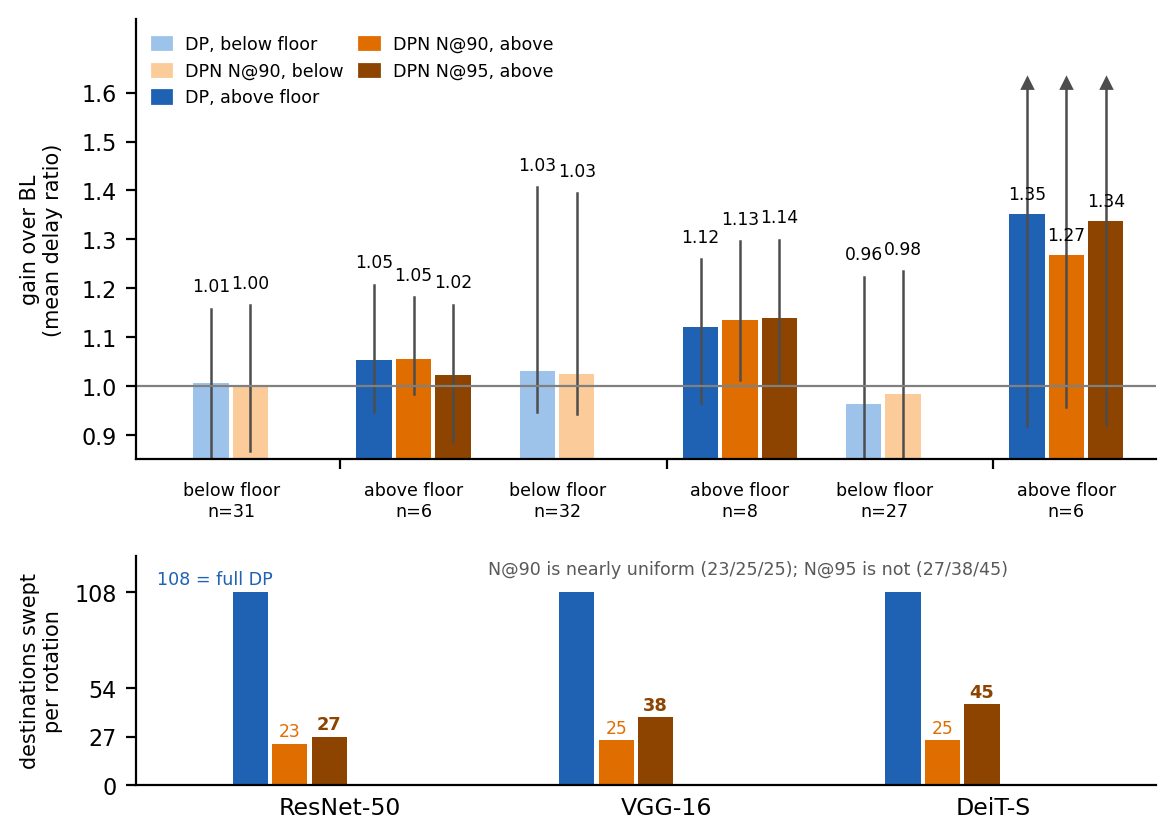
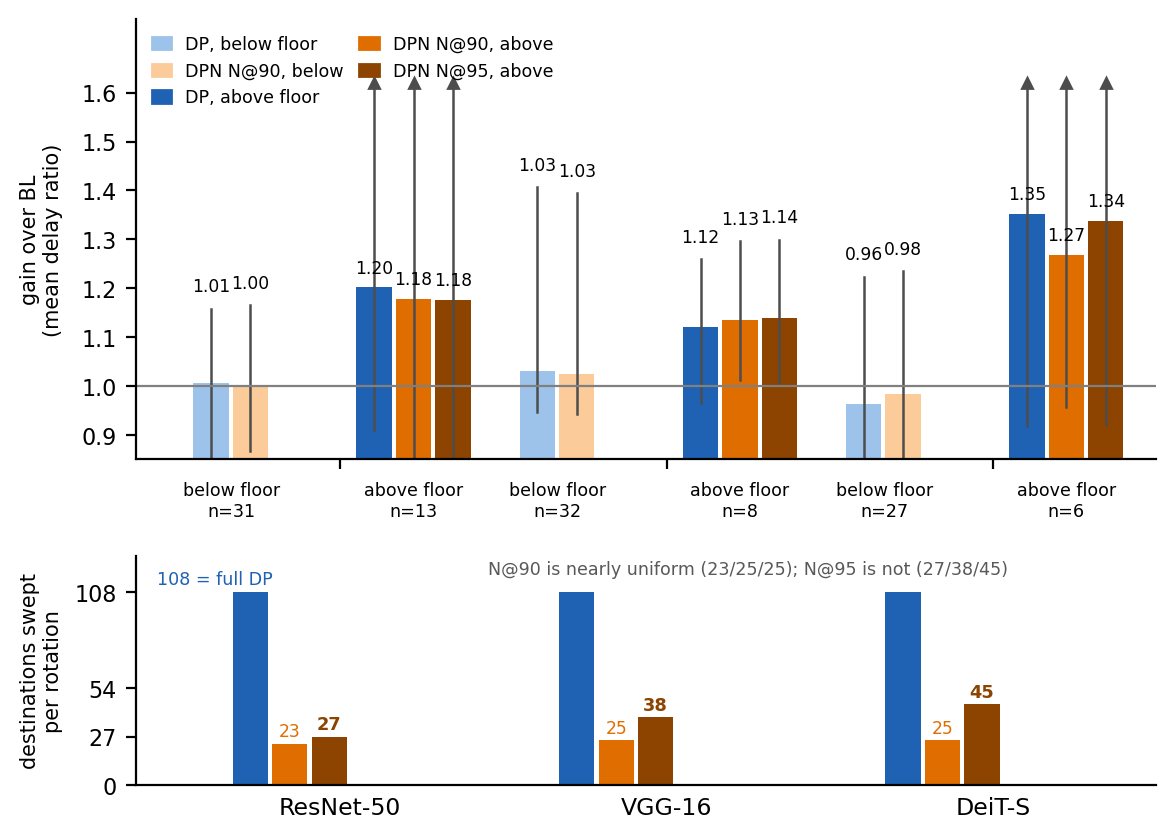
Extension: enlarge ResNet above-floor sample — two corrections
Eight further ResNet (16,2,8) above-floor placements (7 in band after a ladder
patch; knees sit between k=1.8 and 2.1) take that sample from 6 to 13 cells.

1. ResNet's above-floor gain is 1.201 (range 0.91-2.84), not 1.053. The earlier
   weak number was a small-sample artifact, so it no longer supports the
   "injection-bound gains least" reading — the binding result stands on the
   engineered-E grids, not on these cells.
2. The N@95 regression on ResNet was noise: paired difference +0.008, p=0.66
   (VGG p=0.50, DeiT p=0.46). Gain is flat in N from 23 to 27 to 108; the only
   starving cell is DeiT's deepest (0.761 -> 0.944 at N@95).

T1 and F1/F1v2 rebuilt on the enlarged sample: above-floor capture 90/117/78%,
DP/DPN within 3% everywhere.

Changed region(s): [[0.2755, 0.2789, 0.398, 0.4648], [0.3061, 0.093, 0.398, 0.124], [0.3367, 0.5888, 0.3673, 0.6198]]

diff --git a/results_ext/topn/matrix/plot_dpn_bars2.py b/results_ext/topn/matrix/plot_dpn_bars2.py
@@ -3,7 +3,7 @@
 Per workload: below floor (DP, DPN@90) and above floor (DP, DPN@90, DPN@95),
 with a cost panel underneath giving destinations swept per rotation
 (108 / N@90 / N@95).  Above-floor bars use the cells that have both coverages
-(6/8/6) so the three bars in that group are the same placements.
+(13/8/6 after the ResNet ladder patch) so the three bars are the same placements.
 """
 import collections, statistics as st
 import matplotlib
@@ -14,7 +14,8 @@ K = '/home/nizar/noxim3d-dnn/results_ext/topn/matrix'
 I6 = '/home/nizar/noxim3d-dnn/results_ext/topn/int6'
 spec = {}
 for fn in ('run_spec.txt', 'run_spec_patch.txt', 'run_spec_bE.txt',
-           'run_spec_aE.txt', 'run_spec_b2.txt', 'run_spec_minE.txt'):
+           'run_spec_aE.txt', 'run_spec_b2.txt', 'run_spec_minE.txt',
+           'run_spec_extra_af.txt'):
     try:
         for ln in open(f'{K}/{fn}'):
             t, k, dep, flag = ln.split(); spec[t] = flag
@@ -42,7 +43,7 @@ def load(fn, skip=set()):
 
 load(f'{K}/res_matrix.txt', patched)
 load(f'{K}/res_matrix_patch.txt')
-for _f in ('res_bE.txt', 'res_aE.txt', 'res_b2.txt', 'res_minE.txt', 'res_af_n95.txt'):
+for _f in ('res_bE.txt', 'res_aE.txt', 'res_b2.txt', 'res_minE.txt', 'res_extra_af.txt', 'res_af_n95.txt'):
     load(f'{K}/{_f}')
 load(f'{I6}/res_c16knee.txt')
 
@@ -66,7 +67,7 @@ for pk, name, n90, n95 in WL:
             gd.append(b / d); gh.append(b / h)
     DATA[(name, 'below')] = (gd, gh, None)
     tags = sorted({t for t, p in runs if p == 'hyb95' and spec.get(t) == 'OK'
-                   and t.startswith(f'{pk}_af')})
+                   and (t.startswith(f'{pk}_af') or t.startswith(f'{pk}x'))})
     gd, gh, g9 = [], [], []
     for t in tags:
         b, d, h, h9 = cm(t, 'bl'), cm(t, 'dp'), cm(t, 'hyb'), cm(t, 'hyb95')

diff --git a/results_ext/topn/matrix/plot_dpn_bars.py b/results_ext/topn/matrix/plot_dpn_bars.py
@@ -10,7 +10,9 @@ import matplotlib.pyplot as plt
 K = '/home/nizar/noxim3d-dnn/results_ext/topn/matrix'
 I6 = '/home/nizar/noxim3d-dnn/results_ext/topn/int6'
 spec = {}
-for fn in (f'{K}/run_spec.txt', f'{K}/run_spec_patch.txt'):
+for fn in (f'{K}/run_spec.txt', f'{K}/run_spec_patch.txt', f'{K}/run_spec_bE.txt',
+           f'{K}/run_spec_aE.txt', f'{K}/run_spec_b2.txt', f'{K}/run_spec_minE.txt',
+           f'{K}/run_spec_extra_af.txt'):
     for ln in open(fn):
         t, k, dep, flag = ln.split(); spec[t] = flag
 for ln in open(f'{I6}/run_spec_c16.txt'):
@@ -31,6 +33,8 @@ def load(fn, skip=set()):
 
 load(f'{K}/res_matrix.txt', patched)
 load(f'{K}/res_matrix_patch.txt')
+for _f in ('res_bE.txt', 'res_aE.txt', 'res_b2.txt', 'res_minE.txt', 'res_extra_af.txt'):
+    load(f'{K}/{_f}')
 load(f'{I6}/res_c16knee.txt')
 
 
@@ -42,9 +46,10 @@ def cm(t, pol):
 WL = [('r1628', 'ResNet-50', 23), ('v1644', 'VGG-16', 25), ('esxd', 'DeiT-S', 25)]
 DATA = {}
 for pk, name, N in WL:
-    for sub, code in (('below', 'int'), ('above', 'af')):
-        tags = sorted({t for t, p in runs if p == 'hyb'
-                       and t.startswith(f'{pk}_{code}') and spec.get(t) == 'OK'})
+    for sub, codes in (('below', ('int', 'bE', 'b2', 'bN')),
+                       ('above', ('af', 'aE', 'aN', 'x'))):
+        tags = sorted({t for t, p in runs if p == 'hyb' and spec.get(t) == 'OK'
+                       and any(t.startswith(f'{pk}_{c}') for c in codes)})
         gd, gh = [], []
         for t in tags:
             b, d, h = cm(t, 'bl'), cm(t, 'dp'), cm(t, 'hyb')

diff --git a/docs/TOPN-DP-INVESTIGATION.md b/docs/TOPN-DP-INVESTIGATION.md
@@ -729,3 +729,35 @@ injection-bound packings. That is a conditional, mechanism-bearing rule rather
 than the unconditional predictor the paper's escape-slope framing implied.
 Runs: 1,344 ladder runs across the three new grids, 0 failures. Data:
 `results_ext/ebind/` (grid_*.csv, res_ebind.txt, ANALYSIS.txt).
+
+### Correction and enlargement of the ResNet above-floor sample (2026-09-19)
+
+The first ResNet (16,2,8) above-floor arm had six in-band cells and gave BL/DP
+1.053, which I read as support for the binding rule ("injection-bound packings
+gain least"). Eight further placements were built at the same band
+(PL/PF 1.06-1.10, min-CC in band) and, after a ladder patch (their knees sit
+between k=1.8 and k=2.1, 3.0x -> 8-11x), seven landed in band. Two corrections
+follow.
+
+**ResNet's above-floor gain is larger and far more variable than six cells
+showed.** Pooled over 13 cells: BL/DP **1.201, range 0.91-2.84** (the new cells
+alone give 1.328). So the earlier 1.05 was a small-sample artifact of unusually
+mild placements, not a consequence of injection binding. The binding result
+itself is unaffected — it rests on the eight engineered-E grids and the capacity
+outcome, not on these cells — but the anecdote should not be repeated.
+
+**The N@95 "regression" on ResNet was noise.** With 13 cells the paired
+difference between DP/DPN at N@90 and at N@95 is +0.008 (t = 0.44, p = 0.66);
+VGG -0.003 (p = 0.50) and DeiT -0.024 (p = 0.46) are likewise indistinguishable.
+The honest statement is that **gain is flat in N from 23 to 27 to 108
+destinations**, with one exception that is a cell rather than a workload:
+DeiT's deepest placement (esxd_af3, 5.9x free-flow) starves at N@90
+(DP/DPN 0.761) and recovers at N@95 (0.944). N@90 remains the default because
+it is the cheapest coverage at which no cell is known to starve, not because
+larger N is harmful.
+
+**Pooled DPN position, all cells (T1 rebuilt):** below floor DP/DPN 0.998 /
+0.994 / 1.022; above floor 0.990 / 1.018 / 0.979, capture 90% / 117% / 78%.
+DPN tracks DP within 3% in every workload and regime; the direction of the
+residual varies with the sample, so "DPN exceeds DP" should be stated as
+"matches DP within a few percent".
